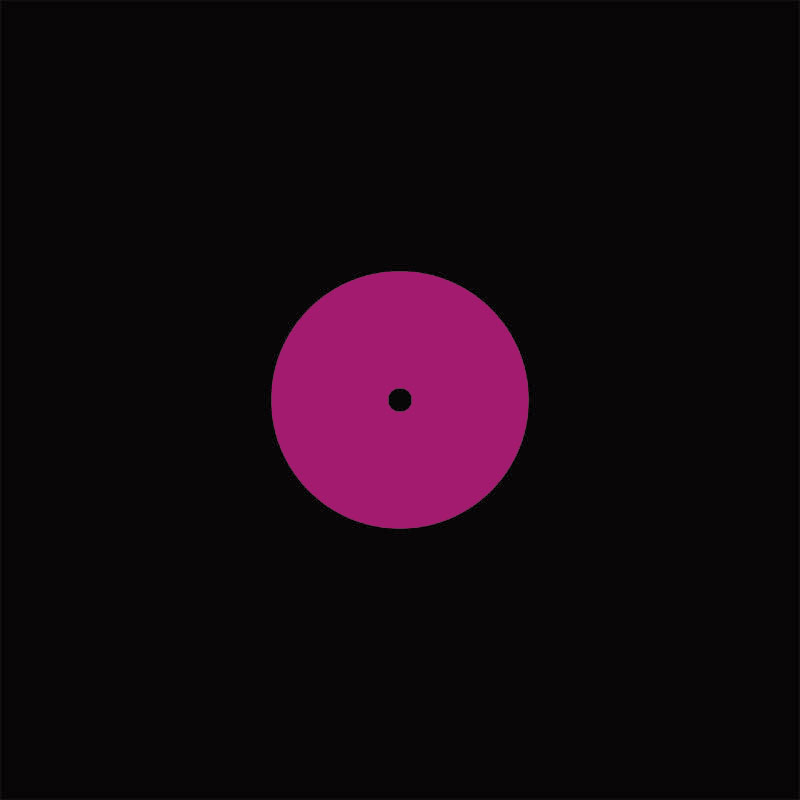
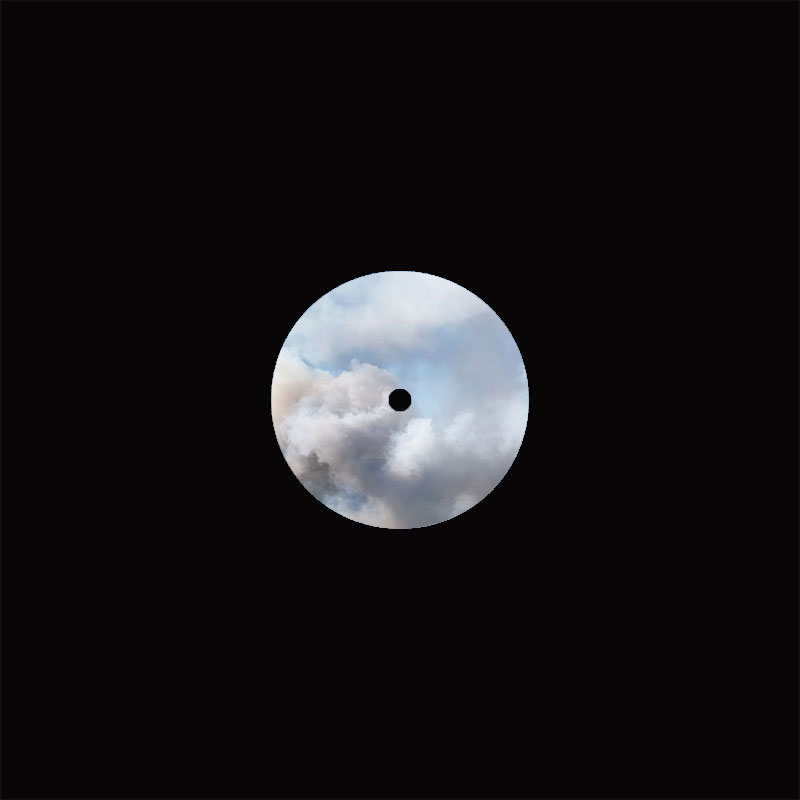
up

Changed region(s): [[0.3125, 0.3125, 0.6875, 0.6875]]

diff --git a/inter24.html b/inter24.html
@@ -50,12 +50,12 @@
 				</div>
 				<div class="zoom-container">
 					<a href="#">
-						<img src="img/inter24ab.jpg" />
+						<img src="img/inter24a.jpg" />
 					</a>
 				</div>
 				<div class="zoom-container">
 					<a href="#">
-						<img src="img/inter24ab.jpg" />
+						<img src="img/inter24b.jpg" />
 					</a>
 				</div>
 
